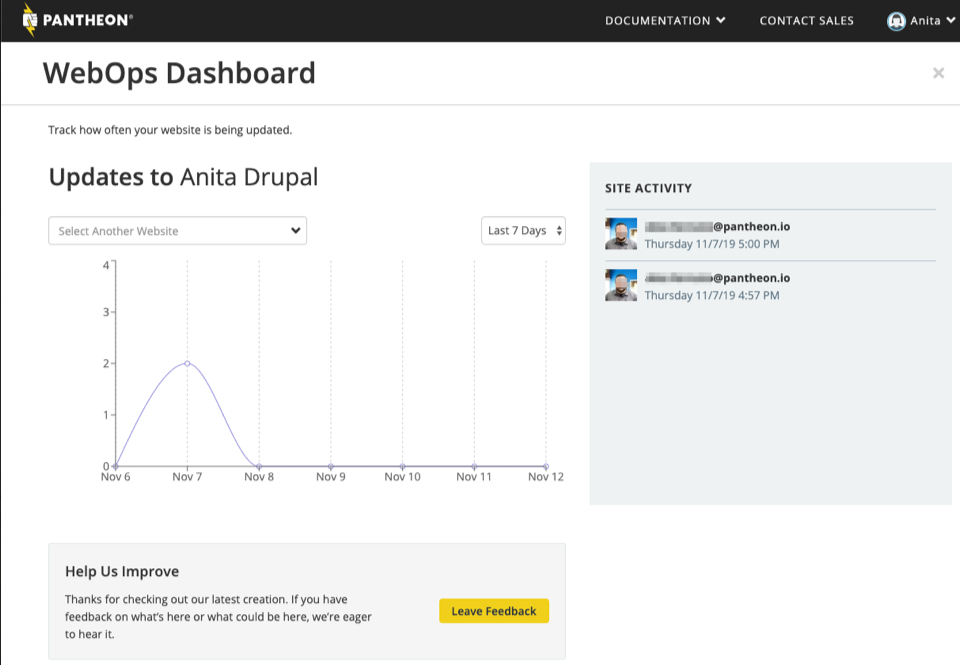
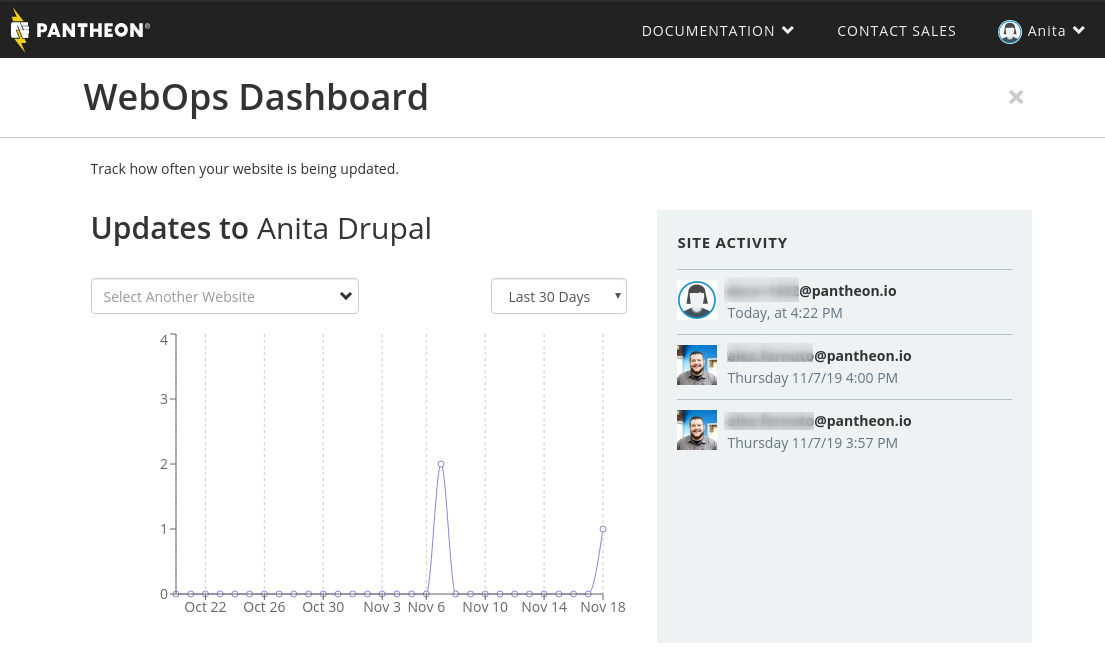
update screenshots

diff --git a/source/content/webops-dashboard.md b/source/content/webops-dashboard.md
@@ -11,7 +11,7 @@ Pantheon's [WebOps](https://pantheon.io/webops) Dashboard combines metrics and d
 
 ## How to Access the WebOps Dashboard
 
-From the User or Org Dashboard, any Site that is not [Sandbox](/create-sites#sandbox-sites) or [Frozen](/platform-considerations#inactive-site-freezing) has a **Track WebOps** button:
+From the [User](https://dashboard.pantheon.io) or Org Dashboard, any Site that is not [Sandbox](/create-sites#sandbox-sites) or [Frozen](/platform-considerations#inactive-site-freezing) has a **Track WebOps** button:
 
 ![Screenshot of a User Dashboard with a Site showing the Track WebOps button](../images/dashboard/user-dash-track-webops.png)
 
@@ -21,7 +21,7 @@ From the User or Org Dashboard, any Site that is not [Sandbox](/create-sites#san
 
 The WebOps Dashboard shows site activity as measured by code deployed from the Test to Live environment.
 
-The graph shows the frequency of activity over the time period selected in the dropdown (**Last 7 Days** in the screenshot above). The **Site Activity** section lists the most recent deploys by the user's email.
+The graph shows the frequency of activity over the time period selected in the dropdown (**Last 30 Days** in the screenshot above). The **Site Activity** section lists the most recent deploys by the user's email.
 
 To view the Site Activity for another site, use the **Select Another Website** dropdown.
 
